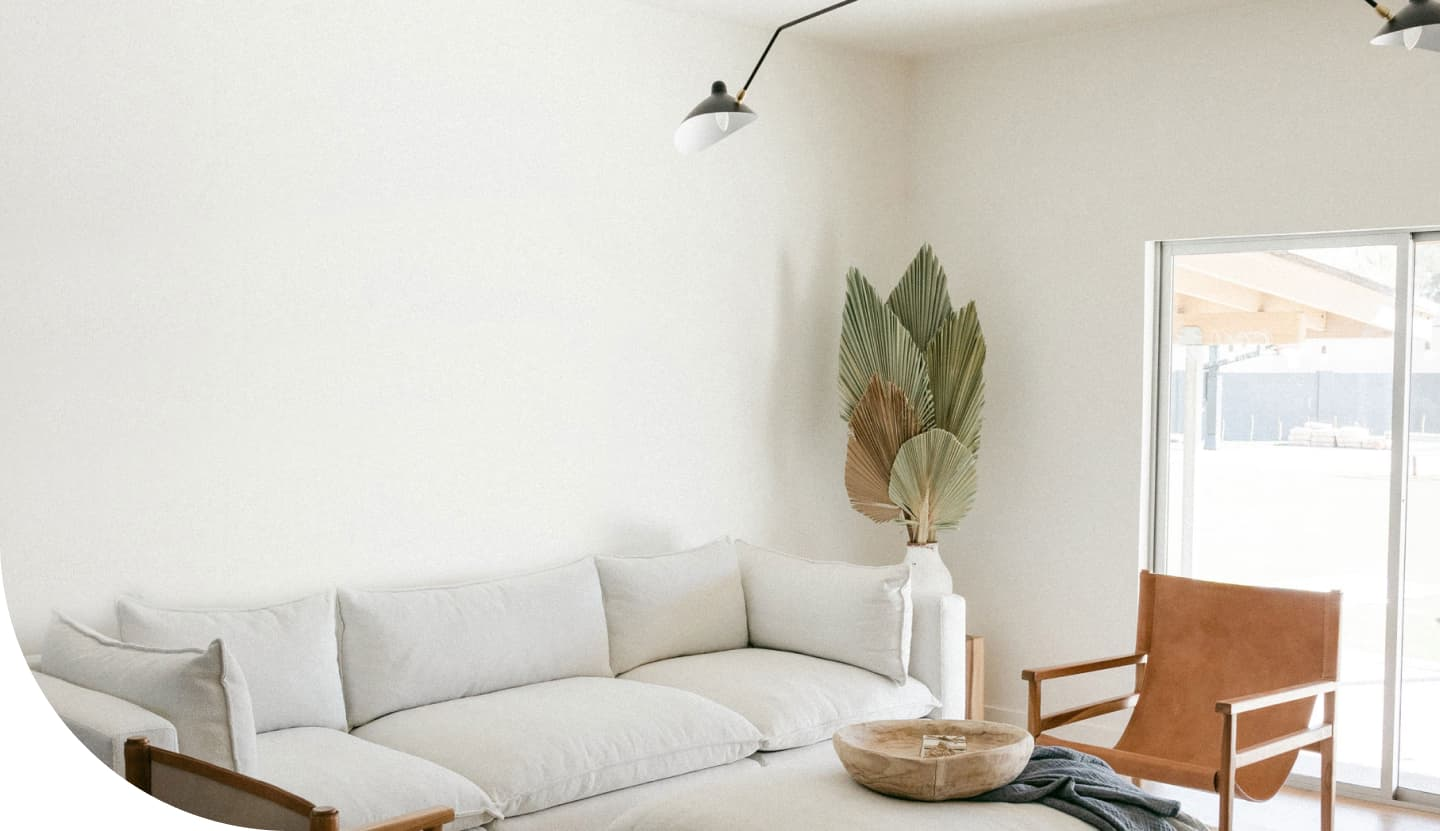
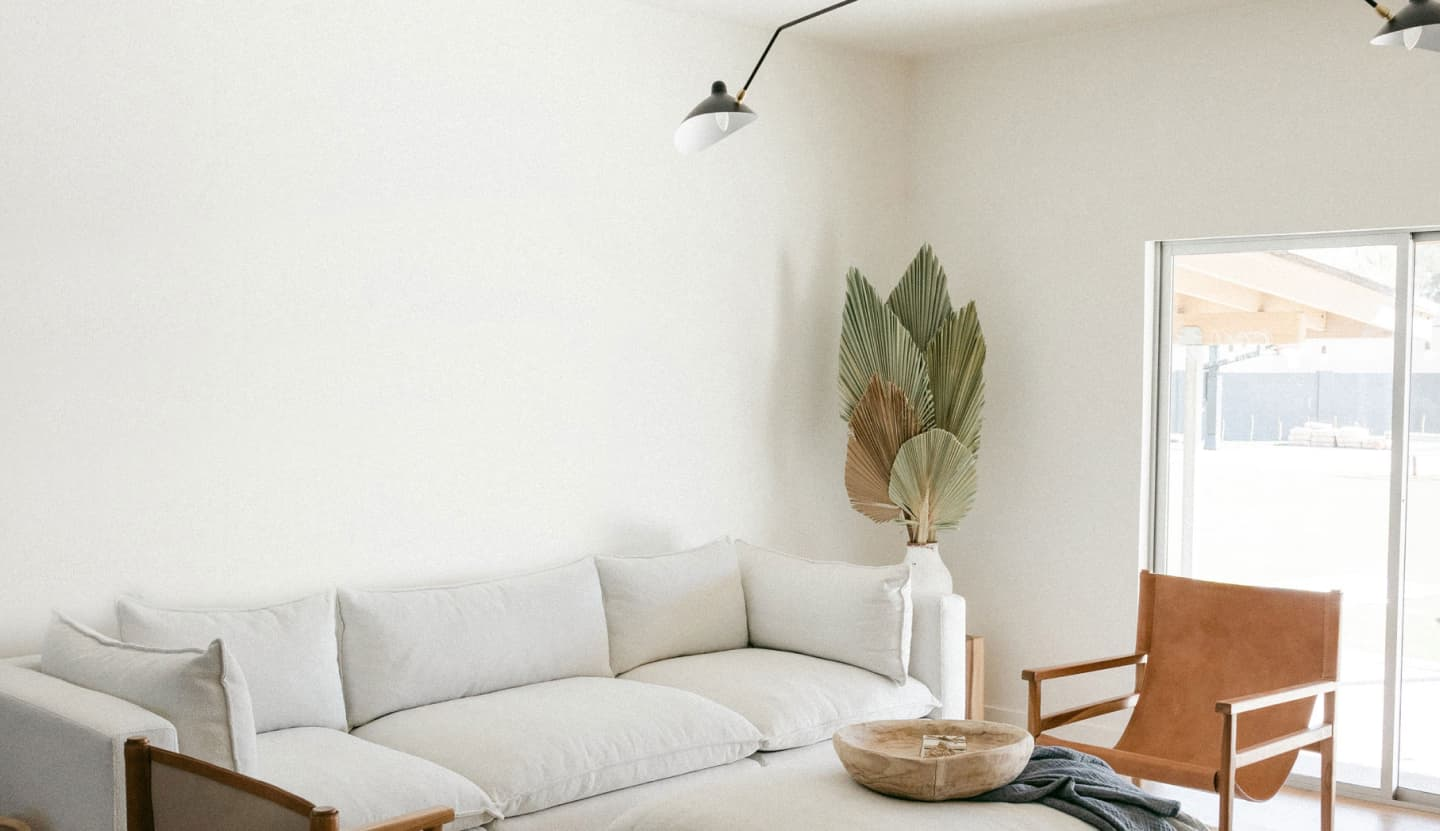
about

Changed region(s): [[0.0, 0.722, 0.1875, 1.0]]

diff --git a/css/style.css b/css/style.css
@@ -9,7 +9,6 @@
 
 body{
     font-family: "Jost", sans-serif;
-    line-height: 1.5;
 }
 
 .container{
@@ -46,26 +45,28 @@ body{
     padding-bottom: 260px;
     background-image: url(../img/herobg.jpg);
     background-repeat: no-repeat;
-    background-size: contain;
+    background-size: cover;
     background-position: center;
+    border-radius: 0px 0px 0px 290px;
 }
 
 .hero-title{
     width: 600px;
     font-family: "DM Serif Display";
     line-height: 1.2;
-    font-weight: 400;
     font-size: 80px;
-    letter-spacing: 0.22px;
     color: var(--text-color);
+    font-weight: 400;
 }
 
 .hero-subtitle{
     font-size: 22px;
     color: var(--descr-color);
-    letter-spacing: 0.22px;
     width: 600px;
     margin-top: 19px;
+    letter-spacing: 0.22px;
+    font-weight: 400;
+    line-height: 1.5;
 }
 
 .hero-btn{
@@ -74,6 +75,15 @@ body{
     border-radius: 18px;
     padding: 22px 56px;
     color: var(--main-color);
+    letter-spacing: 0.72px;
+}
+
+.hero-btn:hover{
+    margin-top: 35px;
+    background-color: var(--accent-color); 
+    border-radius: 18px;
+    padding: 22px 56px;
+    color: var(--text-color);
     letter-spacing: 0.72px;
 }
 
@@ -92,35 +102,148 @@ body{
 }
 
 .services-title{
+    letter-spacing: 0.22px;
+    font-weight: 400;
     font-family: "DM Serif Display";
     font-size: 25px;
-    font-weight: 400;
     color: var(--text-color);
     margin-bottom: 17px;
-    letter-spacing: 0.22px;
     line-height: 1.56;
 }
 
 .services-text{
     color: var(--descr-color);
     font-size: 22px;
-    letter-spacing: 0.22px;
     margin-bottom: 35px;
+    letter-spacing: 0.22px;
+    font-weight: 400;
+    line-height: 1.5;
 }
 
 .services-link{
     font-size: 18px;
     letter-spacing: 0.36px;
     color: var(--descr-color);
+    letter-spacing: 0.22px;
+    font-weight: 400;
+    line-height: 1.5;
 }
 
 .services-link:hover{
     color: var(--accent-color);
     letter-spacing: 0.36px;
     font-size: 18px;
+    letter-spacing: 0.22px;
+    font-weight: 400;
+    line-height: 1.5;
 }
 
 .about{
-    padding-top: 170px;
-    
+    margin-top: 170px;
+
+}
+
+.about-box{
+    display: flex;
+    padding-top: 40px;
+    padding-bottom: 37px;
+    /* background-image: url(../img/aboutbg.jpg);
+    background-size: 50%;
+    background-position: right;
+    background-repeat: no-repeat; */
+}
+
+
+.about-title{
+    letter-spacing: 0.22px;
+    font-weight: 400;
+    width: 450px;
+    color: var(--text-color);
+    font-size: 50px;
+    font-family: "DM Serif Display";
+    line-height: 1.3;
+    margin-bottom: 40px;
+}
+
+.about-text{
+    width: 510px;
+    color: var(--descr-color);
+    font-size: 22px;
+    margin-bottom: 40px;
+    letter-spacing: 0.22px;
+    font-weight: 400;
+    line-height: 1.5;
+}
+
+.about-tel{
+    color: var(--descr-color);
+    font-size: 24px;
+    font-style: normal;
+    letter-spacing: 0.22px;
+    font-weight: 400;
+    line-height: 1.5;
+}
+
+.about-subtitle{
+    color: var(--descr-color);
+    font-size: 22px;
+    font-style: normal;
+    letter-spacing: 0.22px;
+    font-weight: 400;
+    line-height: 1.5;
+}
+.about-contacts {
+    display: flex;
+    align-items: center;
+    gap: 20px;
+}
+
+.about-contacts::before{
+    content: "";
+    display: inline-block;
+    width: 93px;
+    height: 93px;
+    border-radius: 50%;
+    background-color: var(--rewievs-bg-color);
+    background-image: url(../img/tel.png);
+    background-repeat: no-repeat;
+    background-size: cover;
+    background-position: center;
+    background-size: 34px 34px;
+}
+
+.about-contacts-texts {
+    display: flex;
+    flex-direction: column;
+}
+
+.about-btn{
+    margin-top: 50px;
+    border-radius: 18px;
+    font-size: 18px;
+    color: var(--main-color);
+    background: var(--text-color);
+    padding: 22px 50px;
+    letter-spacing: 0.72px;
+    font-weight: 400;
+    line-height: 1.5;
+}
+
+.about-btn:hover{
+    margin-top: 50px;
+    border-radius: 18px;
+    font-size: 18px;
+    color: var(--text-color);
+    background: var(--accent-color);
+    padding: 22px 50px;
+    letter-spacing: 0.72px;
+    font-weight: 400;
+    line-height: 1.5;
+}
+
+.about-img{
+    width: 592px;
+    height: 635px;
+    border-radius: 0px 326px 0px 123px;
+    margin-left: 77px;
 }

diff --git a/index.html b/index.html
@@ -56,14 +56,19 @@
             </div>
         </section>
         <section class="about">
-            <div class="container">
-                <h2 class="about-title">We Tackle The Most Challenging Designs</h2>
-                <p class="about-text">The world needs innovators and problem solvers who turn challenges into greater opportunities. We have an insatiable curiosity about transformative trends challenging the status.</p>
-                <address class="about-contacts">
-                        <a href="tel:+012345678">012345678</a>
-                        <p class="about-subtitle">Call Us Anytime</p>
-                </address>
-                <button class="about-btn" type="button">Get Free Estimate</button>
+            <div class="container about-box">
+                <div class="about-content">
+                    <h2 class="about-title">We Tackle The Most Challenging Designs</h2>
+                    <p class="about-text">The world needs innovators and problem solvers who turn challenges into greater opportunities. We have an insatiable curiosity about transformative trends challenging the status.</p>
+                    <address class="about-contacts">
+                        <div class="about-contacts-text">
+                            <a class="about-tel" href="tel:+012345678">012345678</a>
+                            <p class="about-subtitle">Call Us Anytime</p>
+                        </div>
+                    </address>
+                    <button class="about-btn" type="button">Get Free Estimate</button>
+                </div>
+                <div class="about-img-box"><img class="about-img" src="./img/aboutimg.jpg" alt=""></div>
             </div>
         </section>
         <section class="reviews">
